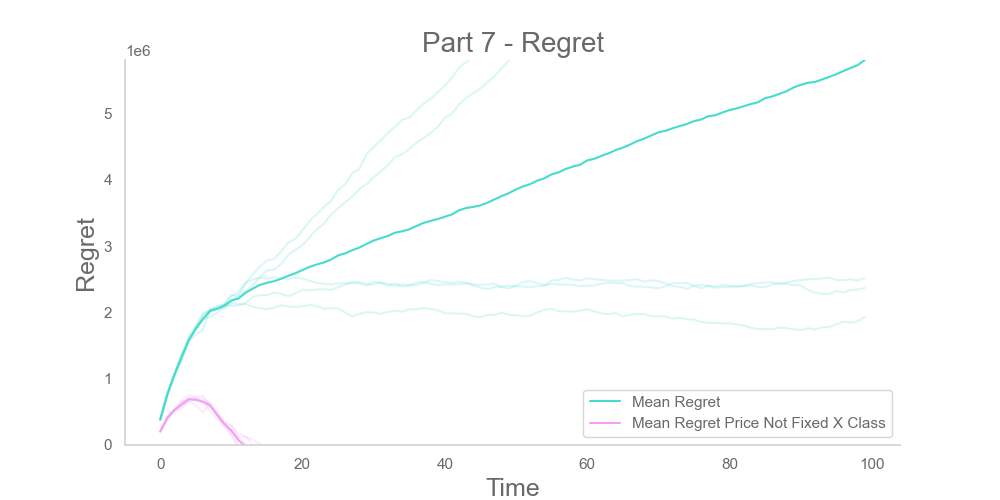
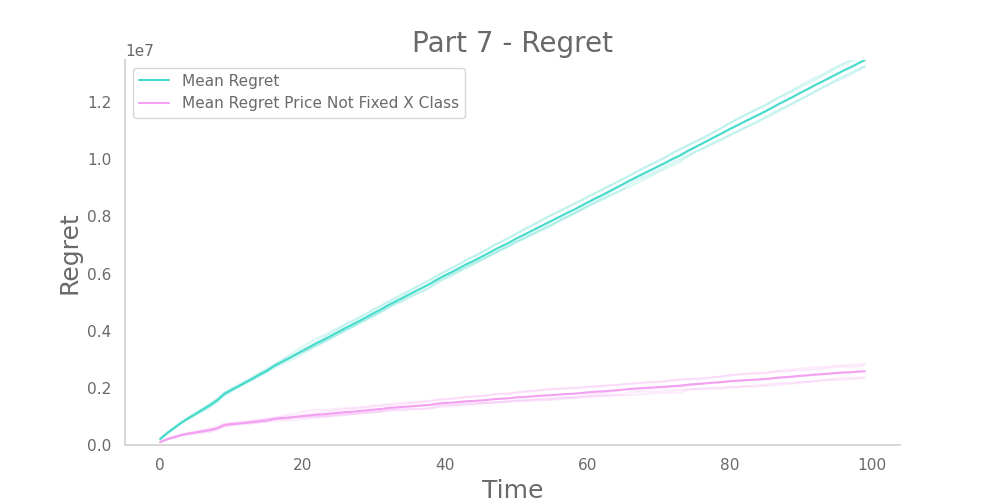
backup

diff --git a/project/part_7/Testing_Env_7.py b/project/part_7/Testing_Env_7.py
@@ -3,15 +3,14 @@ from multiprocessing import Pool
 
 import numpy as np
 
-from project.part_7.Env_7 import Env7
 from project.dia_pckg.Class import Class
 from project.dia_pckg.Config import *
-from project.part_2.BiddingEnvironment import BiddingEnvironment
-from project.dia_pckg.Environment import Environment
 from project.dia_pckg.Product import Product
 from project.dia_pckg.plot_style.cb91visuals import *
-from project.part_7.FixedPriceBudgetAllocator import FixedPriceBudgetAllocator
+from project.part_2.BiddingEnvironment import BiddingEnvironment
 from project.part_4.MultiClassHandler import MultiClassHandler
+from project.part_7.Env_7 import Env7
+from project.part_7.FixedPriceBudgetAllocator import FixedPriceBudgetAllocator
 
 
 def test_part7(n_experiments=10,
@@ -19,7 +18,6 @@ def test_part7(n_experiments=10,
                demand_chart_title='Part 7 - Demand Curves',
                results_chart_path='other_files/testing_part7_regrets.png',
                results_chart_title='Part 7 - Regret'):
-
     # one product to sell
     product = Product(product_config=product_config)
 
@@ -56,7 +54,7 @@ def test_part7(n_experiments=10,
 
     regret_per_experiment = []
 
-    bids = np.linspace(0,max_bid,n_arms_advertising)
+    bids = np.linspace(0, max_bid, n_arms_advertising)
     print(bids)
     env_bid = BiddingEnvironment(bids)
     env_purchases = Env7(mch, n_arms_pricing)
@@ -84,8 +82,7 @@ def test_part7(n_experiments=10,
 
     print('\n\nFINAL LOSS:', np.mean(final_loss_per_experiment))
     print('\n\nFINAL NOT FIXED LOSS:', np.mean(final_loss_per_experiment_notfixed))
-    print('\n\nMEAN LOSS:', np.mean(final_loss_per_experiment)/n_days)
-
+    print('\n\nMEAN LOSS:', np.mean(final_loss_per_experiment) / n_days)
 
     plt.title(results_chart_title, fontsize=20)
 
@@ -113,8 +110,6 @@ def execute_experiment(args):
 
     fix_price_budget_allocator = FixedPriceBudgetAllocator()
 
-
-
     current_day = 0
     done = False
     regret = []
@@ -123,6 +118,7 @@ def execute_experiment(args):
     optimal_not_fixed = fix_price_budget_allocator.get_optimal_reward_not_fixedprice(biddingEnvironment, mch)
     print(f"optimal daily reward: {optimal}")
     print(f"optimal arm price: {opt_price}")
+
     while not done:
         print('day:', current_day)
 
@@ -130,14 +126,14 @@ def execute_experiment(args):
         click_per_class = biddingEnvironment.round(list(allocation.values()))
         purchases_per_class = purchasesEnvironment.round(arm_price, click_per_class)
 
-        regret_not_fixed.append(optimal_not_fixed - (sum(purchases_per_class.values()) * fix_price_budget_allocator.prices[arm_price]))
+        daily_revenue = sum(purchases_per_class.values()) * fix_price_budget_allocator.prices[arm_price]
+        regret_not_fixed.append(optimal_not_fixed - daily_revenue)
 
         regret.append(optimal - (sum(purchases_per_class.values()) * fix_price_budget_allocator.prices[arm_price]))
-        fix_price_budget_allocator.update(arm_price,allocation, click_per_class, purchases_per_class)
+        fix_price_budget_allocator.update(arm_price, allocation, click_per_class, purchases_per_class)
 
         # Day step
         current_day, done = biddingEnvironment.step()
-
 
     return regret, regret_not_fixed
 

diff --git a/project/part_7/SubCampaignHandler.py b/project/part_7/SubCampaignHandler.py
@@ -1,32 +1,24 @@
 import numpy as np
 
-from project.part_2.GPTS_Learner import GPTS_Learner
 from project.dia_pckg.Config import *
+from project.part_2.GPTS_Learner import GPTS_Learner
 
 
 class SubCampaignHandler:
-
 
     def __init__(self, class_name, bids, prices):
         self.class_name = class_name
         self.learnerADV = GPTS_Learner(bids)
         self.learnerCR = GPTS_Learner(prices)
 
-    def daily_update(self,arm_price, arm_adv, clicks, purchases):
+    def daily_update(self, arm_price, arm_adv, clicks, purchases):
         self.learnerADV.update(arm_adv, clicks)
         self.learnerCR.update(arm_price, purchases)
 
-
     def get_estimated_clicks(self):
         estimated_means = self.learnerADV.pull_arm_sequence()
-        return np.random.normal(estimated_means,[artificial_noise for i in range(len(estimated_means))])
+        return np.random.normal(estimated_means, [artificial_noise for i in range(len(estimated_means))])
 
-    #TODO decidere se usare il artificial_noise anche qua
+    # TODO decidere se usare il artificial_noise anche qua
     def get_estimated_cr(self, arm_price):
         return np.random.normal(self.learnerCR.pull_arm(arm_price), artificial_noise)
-
-
-
-
-
-

diff --git a/project/part_7/Env_7.py b/project/part_7/Env_7.py
@@ -31,7 +31,7 @@ class Env7():
 
         for cl, ck in enumerate(clicks_per_class):
             conv_rate = self.mch.get_class(class_name=class_names[cl]).conv_rates['phase_0']
-            probability = conv_rate['probabilities'][pulled_arm_price]
+            probability = conv_rate['probabilities'][self.get_true_index(pulled_arm_price)]
 
             if probability < 0:
                 probability = 1e-3
@@ -39,3 +39,7 @@ class Env7():
             purchases[class_names[cl]] = int(np.random.normal(probability, noise_std) * ck)
 
         return purchases
+
+    def get_true_index(self, pull_arm):
+        arm_distance = int(self.mch.aggregate_demand_curve['prices'].shape[0] / self.n_arms)
+        return int(arm_distance * pull_arm)

diff --git a/project/part_7/FixedPriceBudgetAllocator.py b/project/part_7/FixedPriceBudgetAllocator.py
@@ -17,7 +17,7 @@ class FixedPriceBudgetAllocator:
 
     def update(self, price, allocation, click_per_class, purchases_per_class):
         print(
-            f"UPDATE price={price} allocation={list(allocation.values())} clicks={click_per_class} purch={list(purchases_per_class.values())}")
+            f"UPDATE price={price} allocation_arms={list(allocation.values())} clicks={click_per_class} purch={list(purchases_per_class.values())}")
         for idx, subh in enumerate(self.subcampaignHandlers):
             subh.daily_update(price, allocation[subh.class_name], click_per_class[idx],
                               purchases_per_class[subh.class_name])

diff --git a/project/dia_pckg/Config.py b/project/dia_pckg/Config.py
@@ -47,8 +47,8 @@ print_span = 60  # How often we want to print the graphs
 n_subcamp = 3
 
 max_bid = 1
-n_arms_advertising = 20
-n_arms_pricing = 20
+n_arms_advertising = 10
+n_arms_pricing = 10
 
 noise_std = 0.05
 
